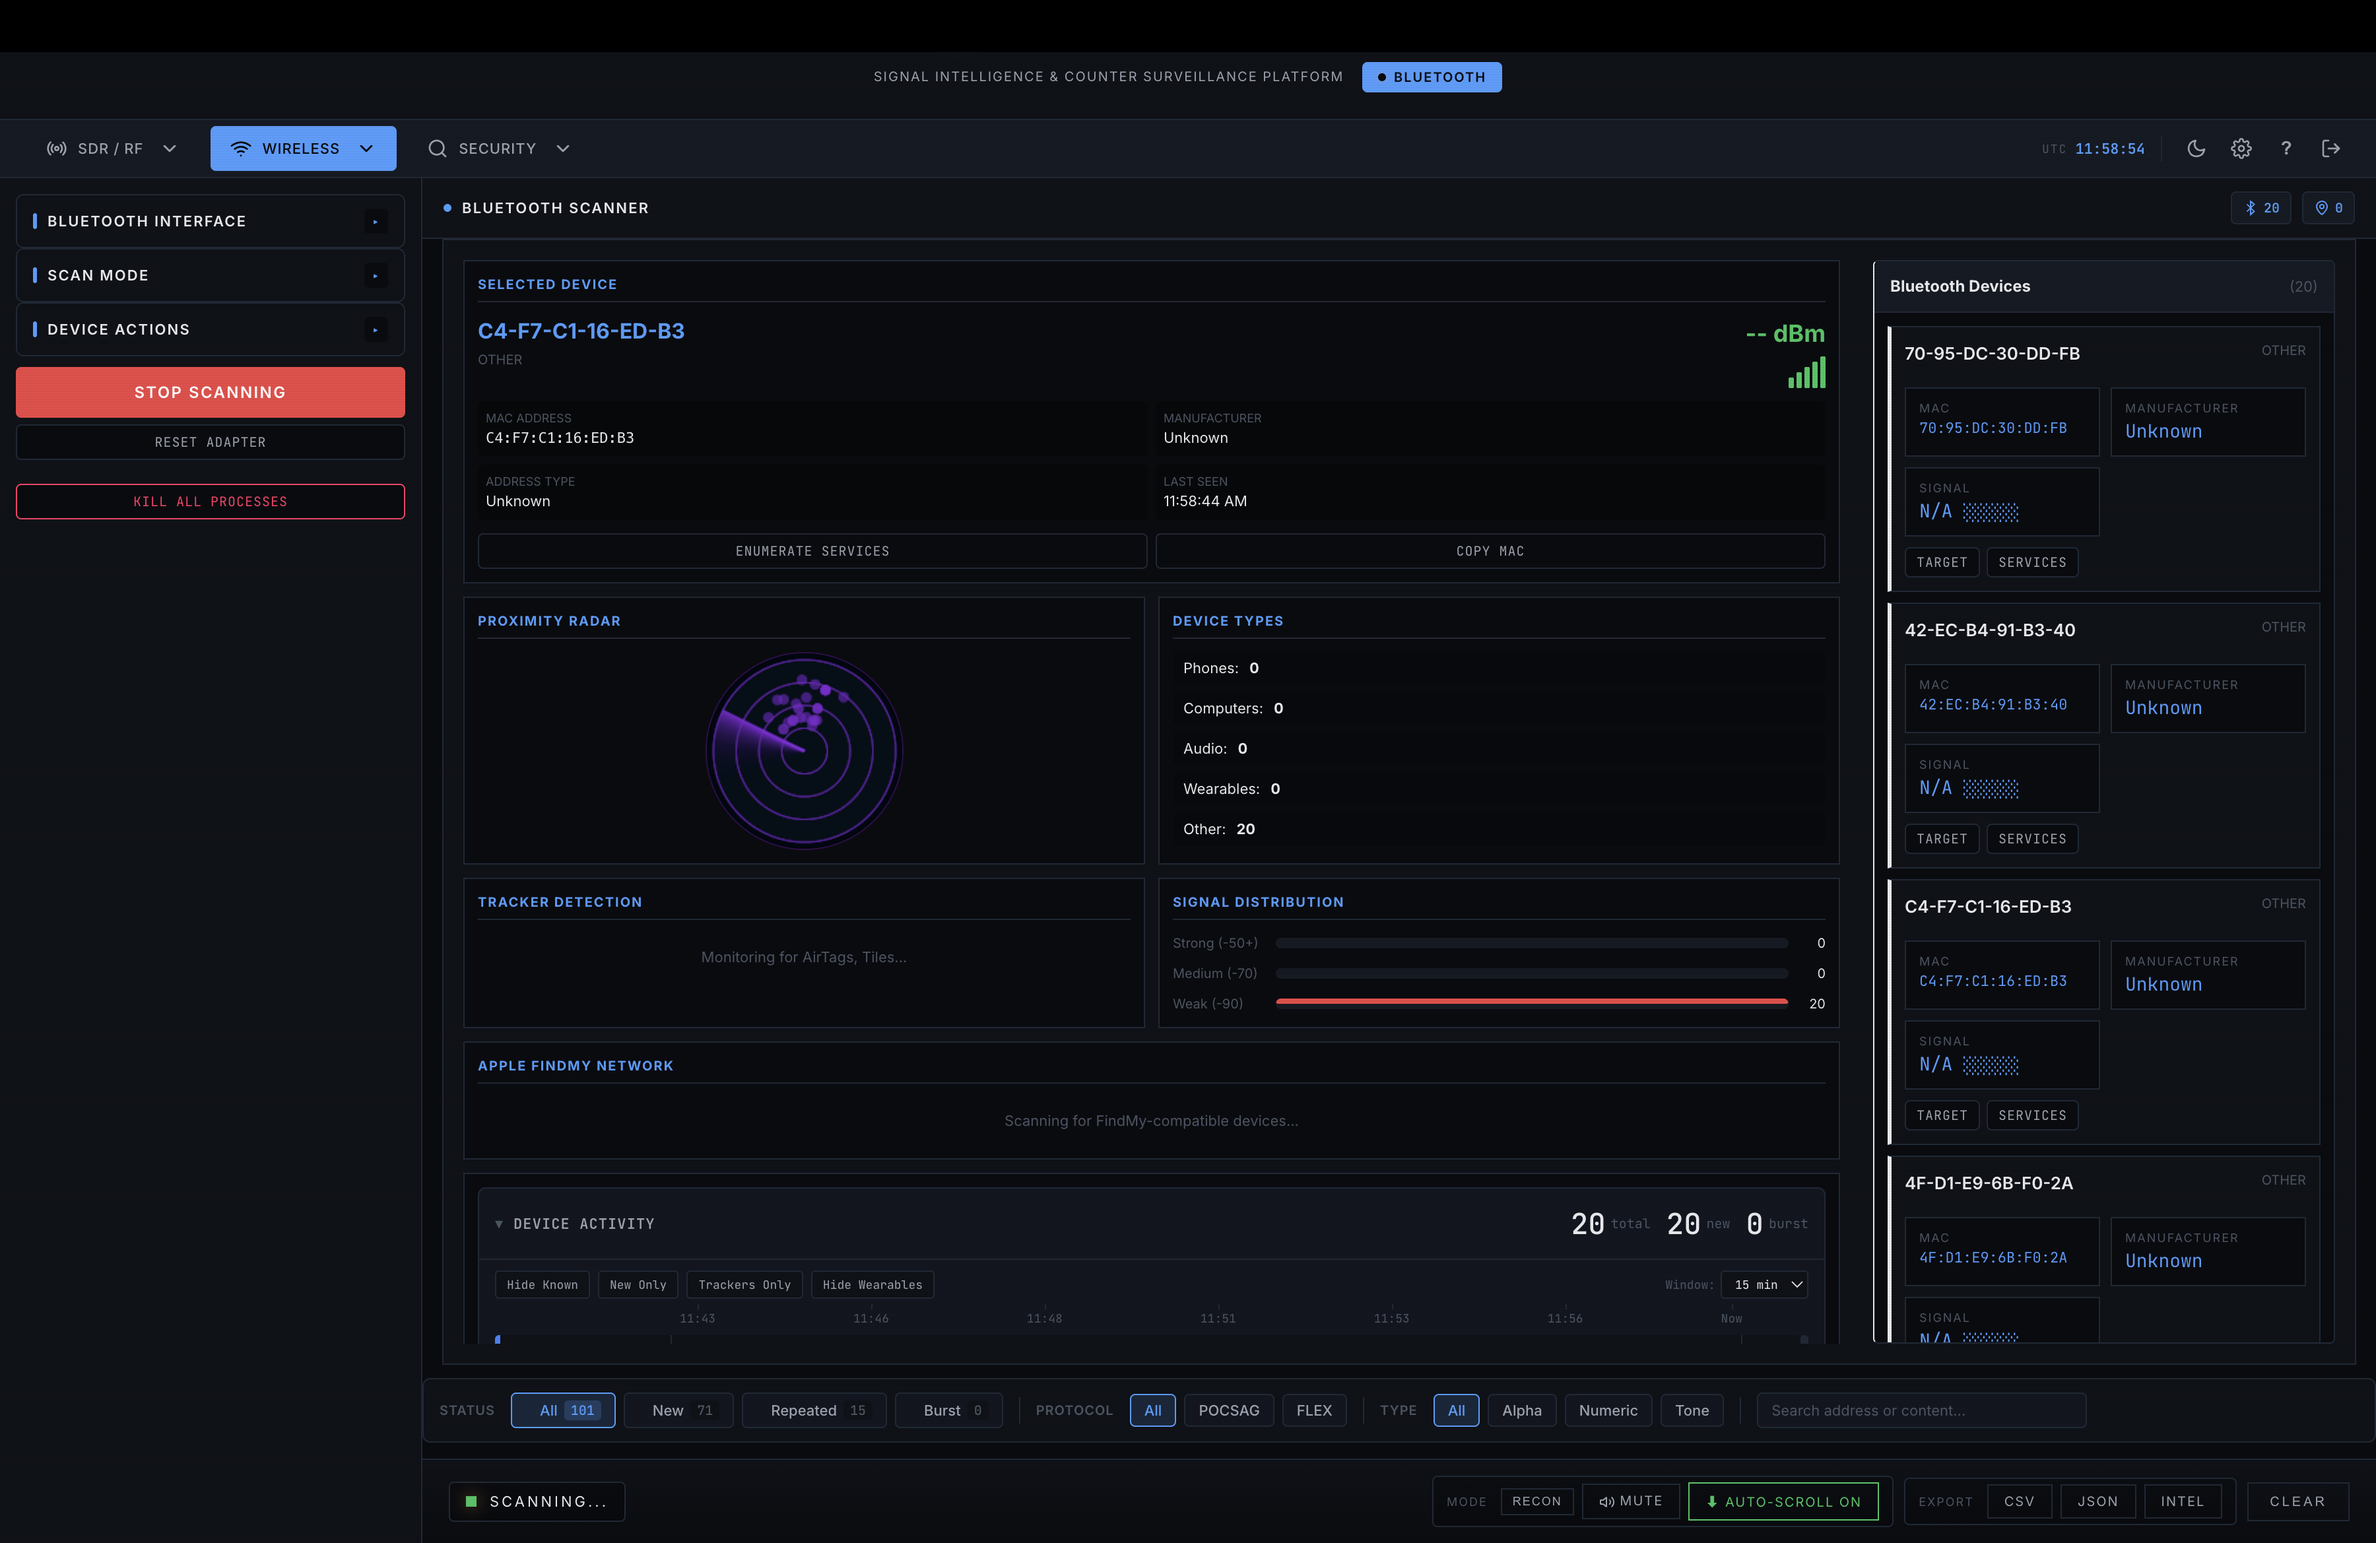
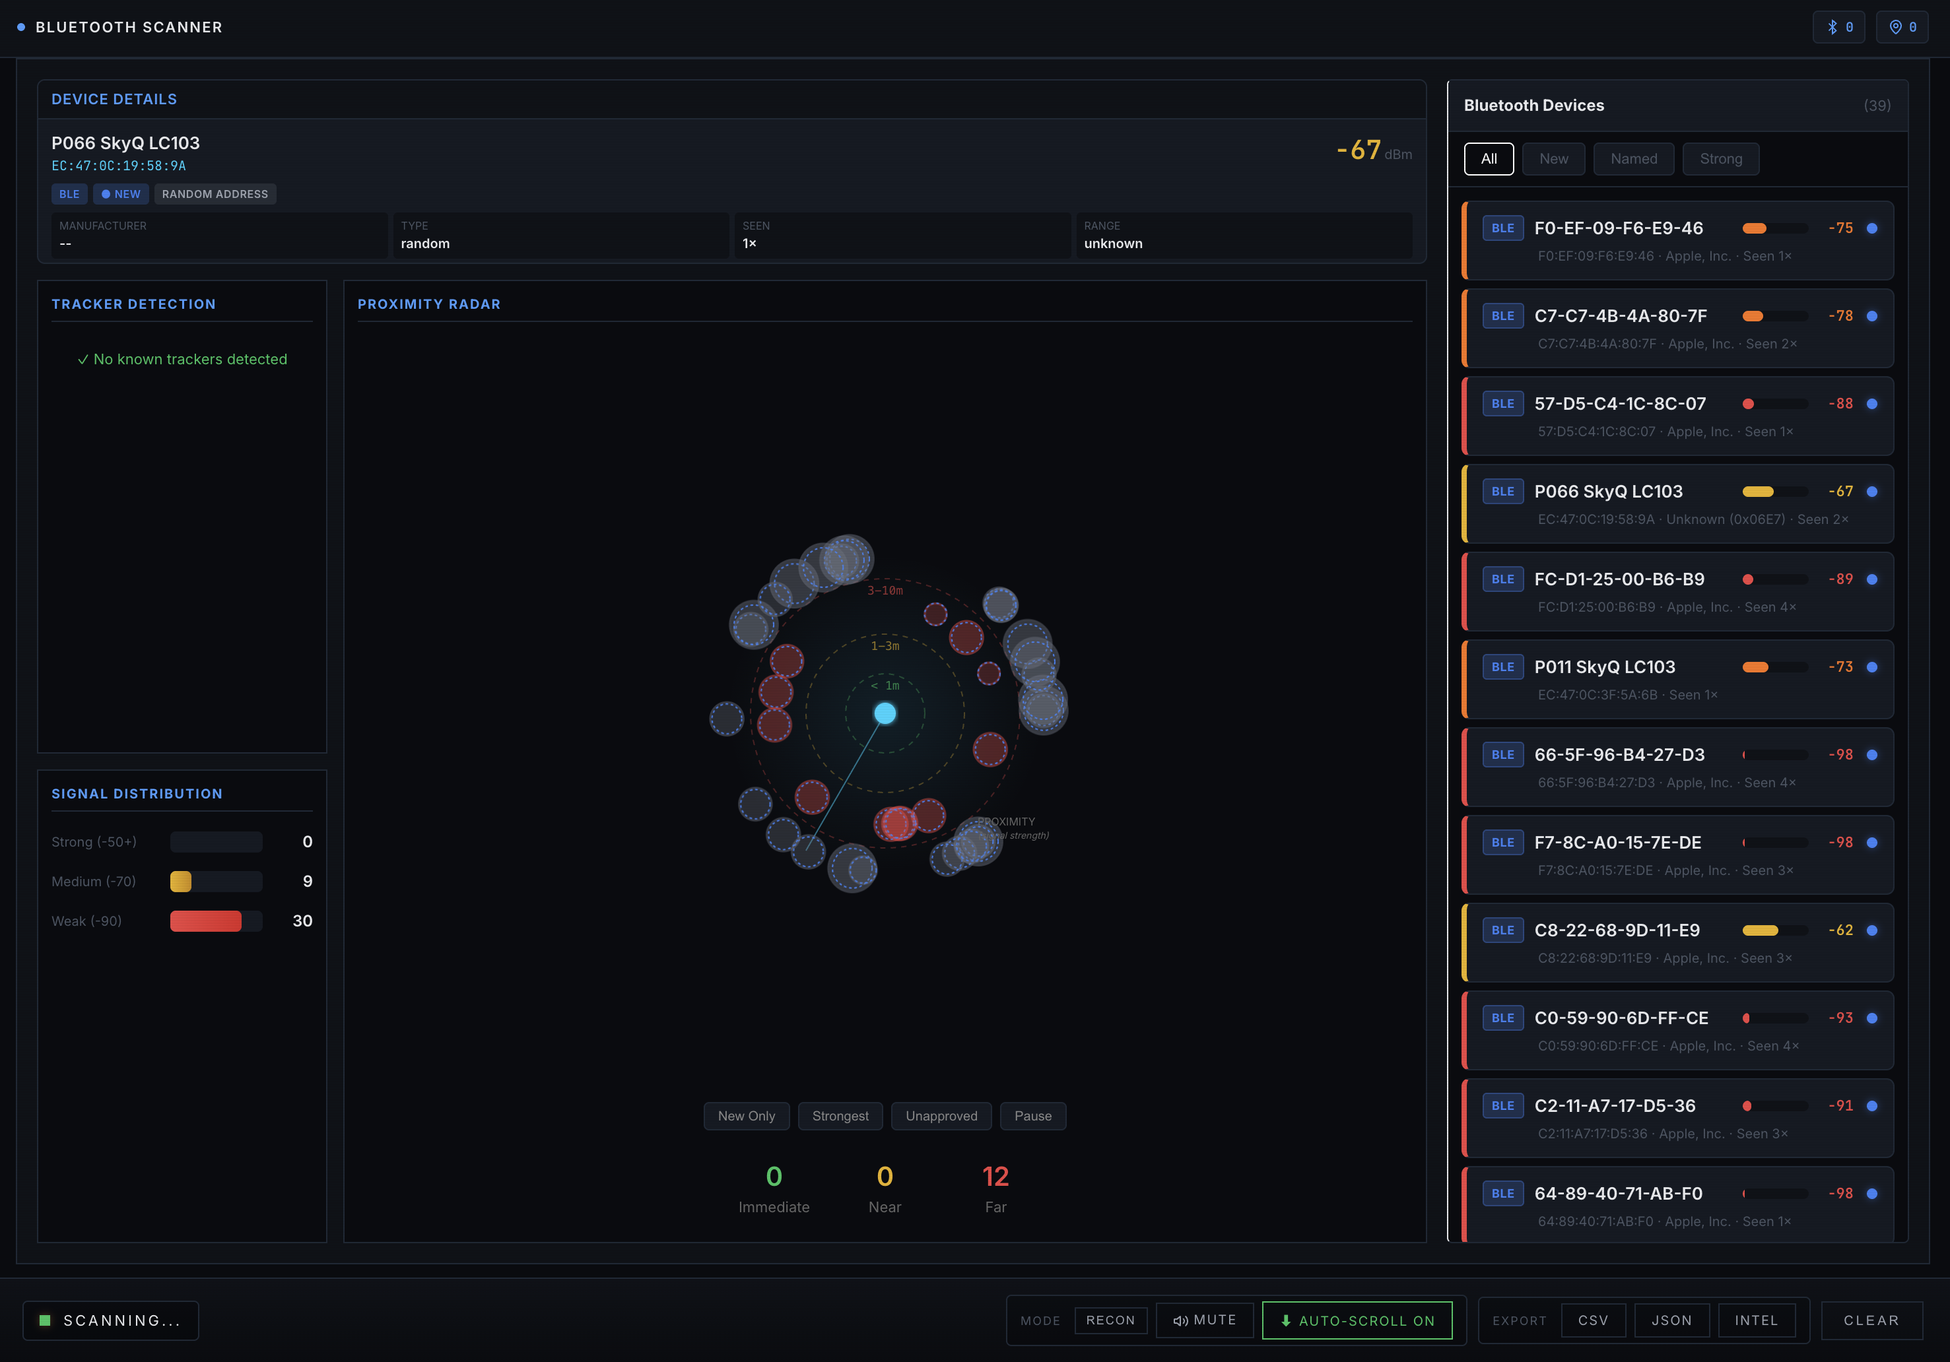
Update GitHub Pages screenshots
Replace TSCM and Bluetooth screenshots with updated versions, add WiFi Scanner screenshot to gallery.

diff --git a/docs/index.html b/docs/index.html
@@ -134,6 +134,10 @@
                     <span class="screenshot-label">Bluetooth Scanner</span>
                 </div>
                 <div class="screenshot-item">
+                    <img src="images/wifi.png" alt="WiFi Scanner">
+                    <span class="screenshot-label">WiFi Scanner</span>
+                </div>
+                <div class="screenshot-item">
                     <img src="images/scanner.png" alt="Listening Post">
                     <span class="screenshot-label">Listening Post</span>
                 </div>
